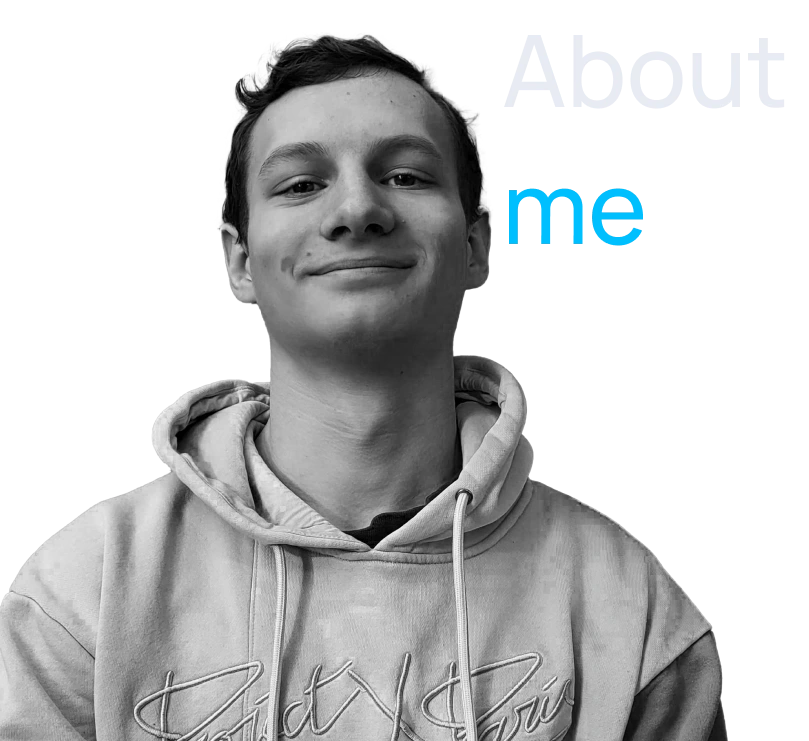
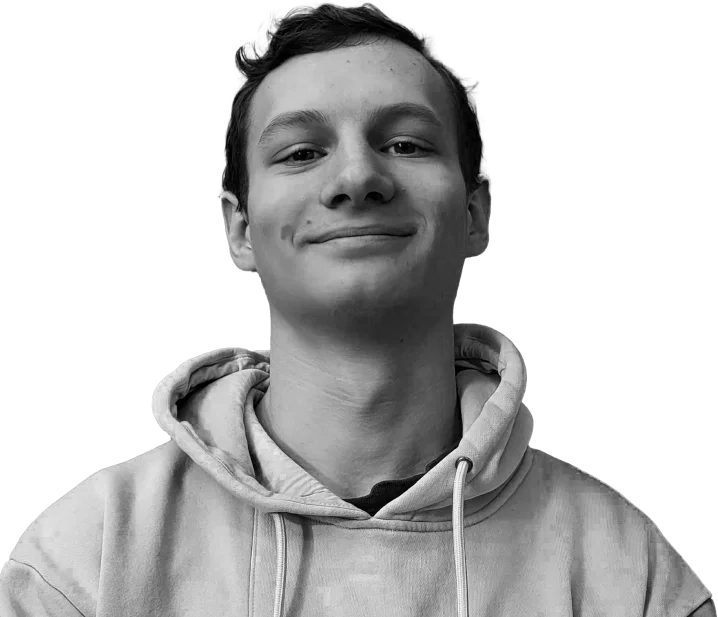
last fixes

diff --git a/src/components/NavBar.jsx b/src/components/NavBar.jsx
@@ -8,6 +8,7 @@ import moon_active from "/moon_active.svg";
 import moon_inactive from "/moon_inactive.svg";
 
 const Navbar = () => {
+  const { darkMode, setDarkMode } = useContext(DarkModeContext);
   const [activeSection, setActiveSection] = useState(null);
   const [backgroundStyle, setBackgroundStyle] = useState({
     left: "24px",
@@ -16,11 +17,31 @@ const Navbar = () => {
   // Au début mettre le background sur le premier élément
   const [lastActiveSection, setLastActiveSection] = useState(null);
 
-  if (window.pageYOffset <= 420) {
-    const fill = "black";
-  } else {
-    const fill = "white";
-  }
+  useEffect(() => {
+    const changePathColor = () => {
+      // Sélection de tous les éléments <path> avec la classe spécifique
+      const elements = document.querySelectorAll(".line");
+
+      elements.forEach((element) => {
+        if (window.pageYOffset <= 750 && darkMode === true) {
+          element.classList.remove("black-path");
+          element.classList.add("white-path");
+        } else {
+          element.classList.remove("white-path");
+          element.classList.add("black-path");
+        }
+      });
+    };
+
+    // Ajout de l'écouteur d'événement pour le défilement
+    window.addEventListener("scroll", changePathColor);
+
+    // Fonction de nettoyage pour supprimer l'écouteur d'événement
+    return () => {
+      window.removeEventListener("scroll", changePathColor);
+    };
+  }, [darkMode]);
+
   useEffect(() => {
     const updateBackgroundStyle = () => {
       // Recherche de l'élément actif dans la liste (avec la classe "active")
@@ -93,7 +114,6 @@ const Navbar = () => {
     }
   };
 
-  const { darkMode, setDarkMode } = useContext(DarkModeContext);
   const [isOpen, setIsOpen] = useState(false);
   const { setLocale, locale } = useLanguage();
 
@@ -211,13 +231,13 @@ const Navbar = () => {
           <div className="mt-12 flex gap-4 text-3xl font-semibold">
             <button
               onClick={handleLangageToggleEN}
-              className={`${locale === "en" ? "text-accent" : "text-text"}`}
+              className={`${locale === "en" ? "text-white" : "text-text"}`}
             >
               EN
             </button>
             <button
               onClick={handleLangageToggleFR}
-              className={`${locale === "fr" ? "text-accent" : "text-text"}`}
+              className={`${locale === "fr" ? "text-white" : "text-text"}`}
             >
               FR
             </button>

diff --git a/src/components/About.jsx b/src/components/About.jsx
@@ -3,13 +3,17 @@ import man from "/man.webp";
 
 const About = () => {
   return (
-    <section className="relative mt-0" id="about">
+    <section className="relative mt-0">
+      <div className="absolute top-[-11%]" id="about"></div>
+      <h3 className="gradient-text font-font-manrope mt-20 bg-gradient-footer-tittle_white bg-clip-text text-center text-[40px] font-semibold dark:bg-gradient-title sm:text-[70px] lg:text-[102px] xl:mt-24 ">
+        <FormattedMessage id="aboutme.title" />
+      </h3>
       <div className="flex flex-col items-center justify-center lg:flex-row">
         <img
           loading="lazy"
           src={man}
           alt="Man"
-          className="z-[3] mt-52 w-full lg:w-1/2"
+          className="z-[3] mt-12 w-full lg:w-1/2"
           draggable={false}
         />
         <div className="lg:p-46 xl:mt-22 mt-8 w-full p-4 lg:w-1/2">

diff --git a/src/components/Works.jsx b/src/components/Works.jsx
@@ -62,7 +62,7 @@ const Works = () => {
       className="section work part mx-4 mt-32 flex flex-col items-center gap-24 md:mx-8 xl:mx-0 xl:ml-auto xl:mr-auto xl:mt-32"
       id="works"
     >
-      <h3 className="gradient-text font-font-manrope bg-gradient-footer-tittle_white mt-20 bg-clip-text text-center text-[60px] font-semibold dark:bg-gradient-title sm:text-[70px] lg:text-[102px] xl:mt-48 ">
+      <h3 className="gradient-text font-font-manrope mt-20 bg-gradient-footer-tittle_white bg-clip-text text-center text-[60px] font-semibold dark:bg-gradient-title sm:text-[70px] lg:text-[102px] xl:mt-48 ">
         <FormattedMessage id="works.title" />
       </h3>
       <div className="card component mt-0 flex flex-col justify-center gap-8 sm:flex-row sm:items-center lg:mt-10 lg:max-w-[84%] xl:ml-auto xl:mr-auto xl:gap-24">
